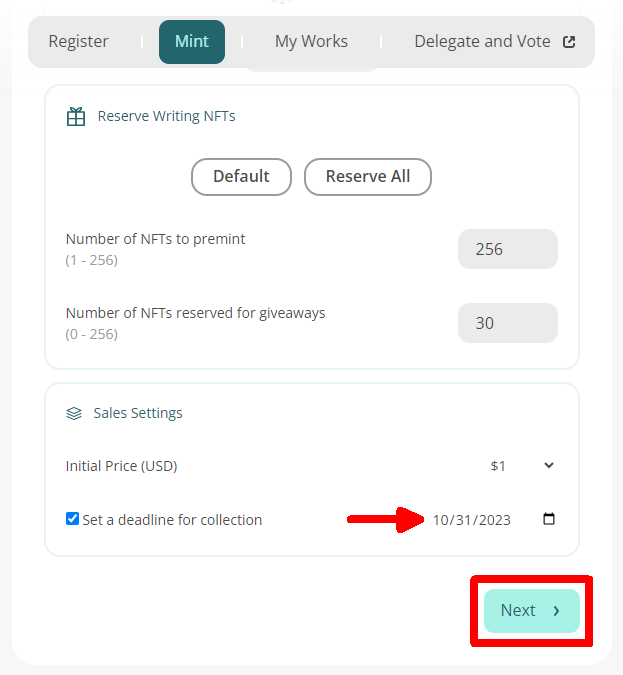
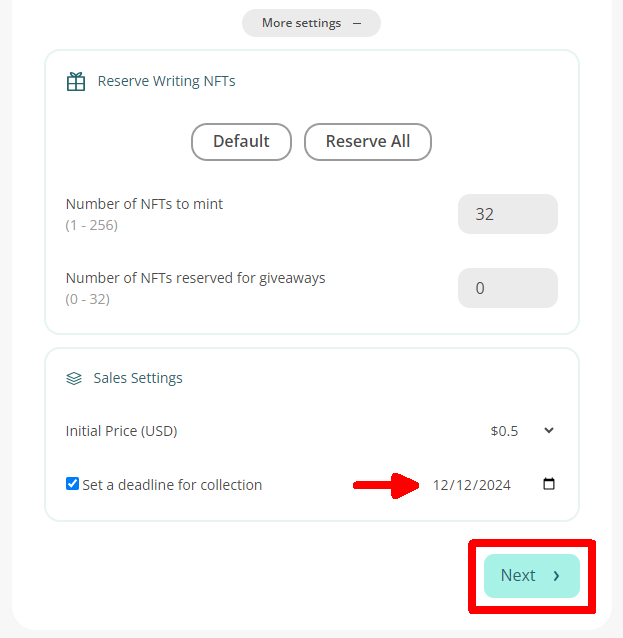
GITBOOK-4628: 出版 Writing NFT

diff --git a/depub/writing-nft/nft-portal/cosmostation-app.md b/depub/writing-nft/nft-portal/cosmostation-app.md
@@ -92,7 +92,7 @@ Cosmostation app 將彈出 Request Transaction Sign 視窗，點「Confirm」。
 
 <figure><img src="../../../.gitbook/assets/NFT Portal 5-3.png" alt=""><figcaption><p>修改 Writing NFT 作者留言及查看更多設定</p></figcaption></figure>
 
-在 Number of NFTs to premint 可輸入 0-255 之間的預先鑄造 NFT 數量；
+在 Number of NFTs to mint 可輸入 0-255 之間的鑄造 NFT 數量；
 
 在 Numbers of NFTs reserved for giveaways 可預留 0-255 份 NFT 作送贈之用；
 

diff --git a/depub/writing-nft/nft-portal/cosmostation.md b/depub/writing-nft/nft-portal/cosmostation.md
@@ -76,7 +76,7 @@ description: 使用 Cosmostation 以文章網址出版 Writing NFT
 
 <figure><img src="../../../.gitbook/assets/NFT Portal 5-3.png" alt=""><figcaption><p>修改 Writing NFT 作者留言及查看更多設定</p></figcaption></figure>
 
-在 Number of NFTs to premint 可輸入 0-255 之間的預先鑄造 NFT 數量；
+在 Number of NFTs to mint 可輸入 0-255 之間的鑄造 NFT 數量；
 
 在 Numbers of NFTs reserved for giveaways 可預留 0-255 份 NFT 作送贈之用；
 

diff --git a/depub/writing-nft/nft-portal/keplr.md b/depub/writing-nft/nft-portal/keplr.md
@@ -76,7 +76,7 @@ description: 使用 Keplr 以文章網址出版 Writing NFT
 
 <figure><img src="../../../.gitbook/assets/NFT Portal 5-3.png" alt=""><figcaption><p>修改 Writing NFT 作者留言及查看更多設定</p></figcaption></figure>
 
-在 Number of NFTs to premint 可輸入 0-255 之間的預先鑄造 NFT 數量；
+在 Number of NFTs to mint 可輸入 0-255 之間的鑄造 NFT 數量；
 
 在 Numbers of NFTs reserved for giveaways 可預留 0-255 份 NFT 作送贈之用；
 
